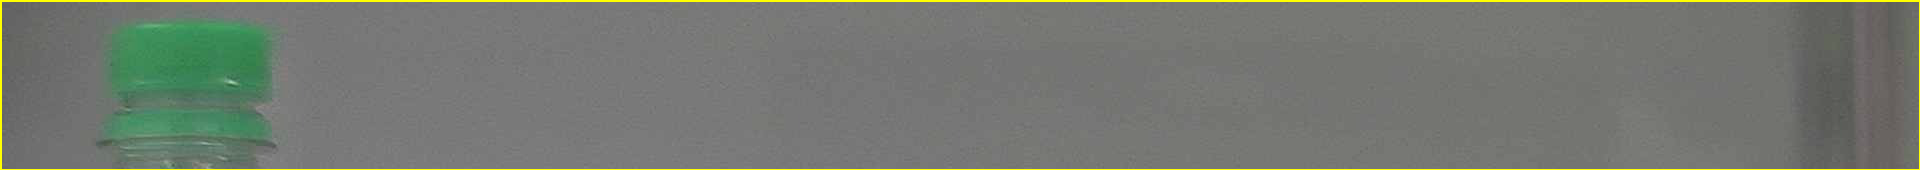
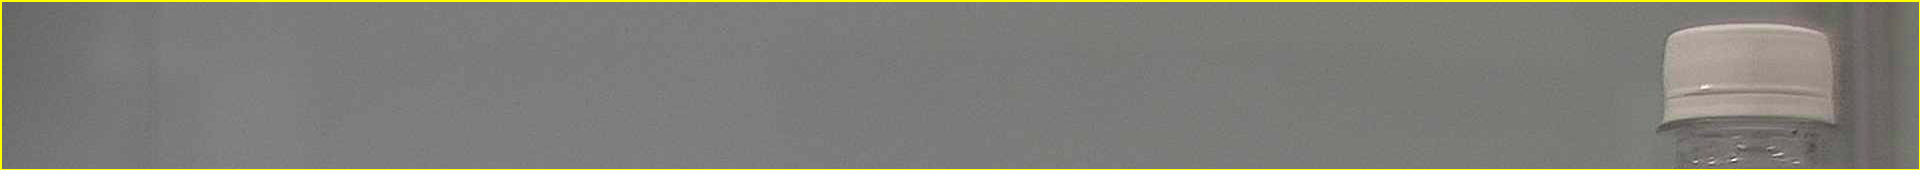
add

Changed region(s): [[0.0312, 0.1176, 0.1562, 1.0], [0.8438, 0.0882, 0.9688, 0.7647], [0.875, 0.8529, 0.9375, 0.9706]]

diff --git a/src/detect_cochai.py b/src/detect_cochai.py
@@ -3,17 +3,17 @@ import numpy as np
 import matplotlib.pyplot as plt
 import os
 import imutils
-from config import ROI_info, H, W, boundaries
+from config import *
 from bottle_cap import simple_process
 
 
 # Bước 1: đọc ảnh
-path = '../raw_data/DASANI/SNB-6004_20201014114137.jpeg'
+path = '../raw_data/AUQA/0001.jpeg'
 if not os.path.exists(path):
 	print("The invalid path")
 	exit(0)
 
-img = plt.imread(path)
+img = plt.imread(path, 0)
 
 roi_img = cv2.rectangle(img, ROI_info['p1'], ROI_info['p4'], color=(0, 255, 255), thickness=2)
 cv2.imwrite('ROI.png', roi_img[ROI_info['p1'][1]:ROI_info['p3'][1], 0:W,:])
@@ -22,16 +22,54 @@ roi_img = cv2.imread('ROI.png')
 
 # Bước 3: tìm ra mask của nắp chai và vòng cổ chai
 #simple_process(img=roi_img, output='.', lower=50, upper=200)
-for (lower, upper) in boundaries:
-	# create NumPy arrays from the boundaries
-	lower = np.array(lower, dtype = "uint8")
-	upper = np.array(upper, dtype = "uint8")
-	# find the colors within the specified boundaries and apply
-	# the mask
-	mask = cv2.inRange(roi_img, lower, upper)
-	output = cv2.bitwise_and(roi_img, roi_img, mask=mask)
-	# show the images
-	cv2.imshow("ROI image detect nap chai",  output)
-	cv2.waitKey(0)
+(lower, upper) = boundaries[-1]
+#for (lower, upper) in boundaries:
+# create NumPy arrays from the boundaries
+lower = np.array(lower, dtype = "uint8")
+upper = np.array(upper, dtype = "uint8")
+# find the colors within the specified boundaries and apply
+# the mask
+mask = cv2.inRange(roi_img, lower, upper)
+output = cv2.bitwise_and(roi_img, roi_img, mask=mask)
+# show the images
+cv2.imshow("ROI image detect nap chai",  output)
+cv2.waitKey(0)
+
+
+# Bước 4: Template matching to find masks
+path_template = '../template/AUQA_template.jpeg'
+if not os.path.exists(path_template):
+	print("The invalid template image path")
+	exit(0)
+
+# Read template image	
+template = cv2.imread(path_template, 0)
+cv2.imshow('Template image', template)
+cv2.waitKey(0)
+
+w, h = template.shape[0:2]
+
+for meth in METHODS:
+
+    img = output.copy()
+
+    method = eval(meth)
+
+    # Apply template Matching
+    res = cv2.matchTemplate(img, template, method)
+    min_val, max_val, min_loc, max_loc = cv2.minMaxLoc(res)
+    # If the method is TM_SQDIFF or TM_SQDIFF_NORMED, take minimum
+    if method in [cv2.TM_SQDIFF, cv2.TM_SQDIFF_NORMED]:
+        top_left = min_loc
+    else:
+        top_left = max_loc
+    bottom_right = (top_left[0] + w, top_left[1] + h)
+    cv2.rectangle(img,top_left, bottom_right, 255, 2)
+    plt.subplot(121),plt.imshow(res,cmap = 'gray')
+    plt.title('Matching Result'), plt.xticks([]), plt.yticks([])
+    plt.subplot(122),plt.imshow(img,cmap = 'gray')
+    plt.title('Detected Point'), plt.xticks([]), plt.yticks([])
+    plt.suptitle(meth)
+    plt.show()
 
 # Bước 4: Đo khoảng cách giữa nắp chai và vòng cổ chai

diff --git a/src/config.py b/src/config.py
@@ -14,3 +14,6 @@ boundaries = [
 	([25, 146, 190], [62, 174, 250]),
 	([103, 86, 65], [145, 133, 128])
 ]
+
+METHODS = ['cv2.TM_CCOEFF', 'cv2.TM_CCOEFF_NORMED', 'cv2.TM_CCORR',
+            'cv2.TM_CCORR_NORMED', 'cv2.TM_SQDIFF', 'cv2.TM_SQDIFF_NORMED']
